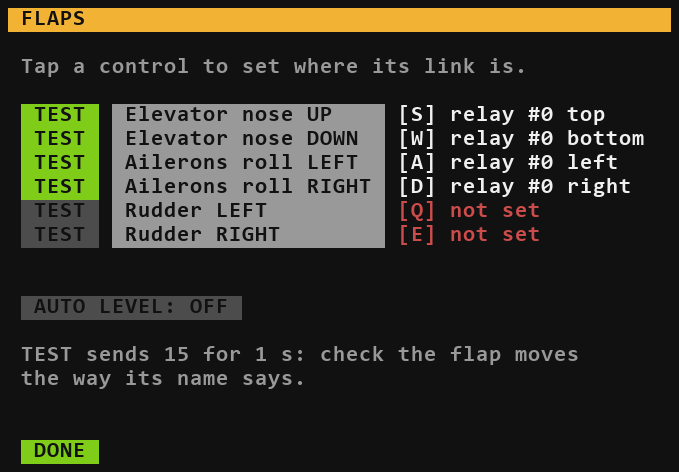
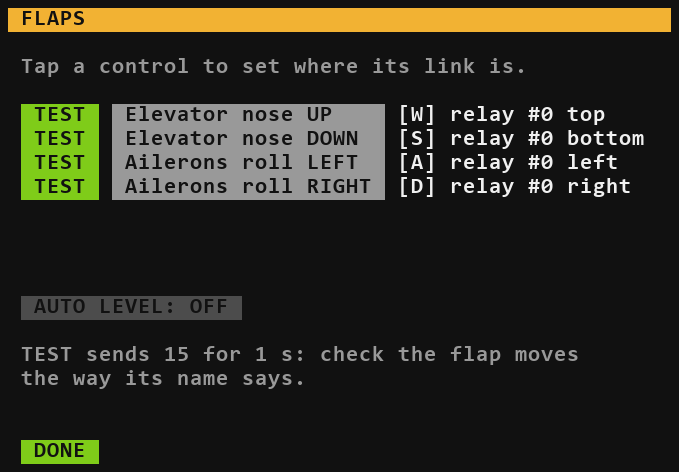
2.0.1: no rudder; W = nose up, S = nose down (NOSE_UP_KEY / NOSE_DOWN_KEY); Q never quits in PLANE mode

Changed region(s): [[0.0309, 0.4153, 0.7113, 0.5339], [0.7423, 0.4153, 0.8041, 0.5339], [0.5876, 0.2076, 0.6186, 0.3263]]

diff --git a/README.md b/README.md
@@ -43,7 +43,7 @@ If the program stops for any reason the Flight Controller cuts every thruster af
 
 The typewriter's keys go to this computer, and the computer drives the flaps through **Redstone Links** on **Redstone Relays** (or its own sides), so auto-level can add its corrections to yours. A typewriter and the computer sending on the same frequency would fight, so the flap links are powered by the computer only.
 
-- Elevator **S** nose up / **W** nose down, ailerons **A** / **D**, rudder **Q** / **E** (bind each key to any spare frequency on the typewriter so it sends it).
+- Elevator **W** nose up / **S** nose down, ailerons **A** / **D** (bind each key to any spare frequency on the typewriter so it sends it).
 - Each direction is one channel: a Redstone Link transmitter on a relay side, paired with a receiver on that side of an **Analog Compact Flap Bearing** (signal strength = how far it turns).
 - Tap **FLAPS** (while hovering or parked) to set where each link is and **TEST** it. Turn **AUTO LEVEL** on there or in PLANE mode: it holds the wings level and the nose at `PITCH_TRIM`; a held key always wins on its axis.
 
